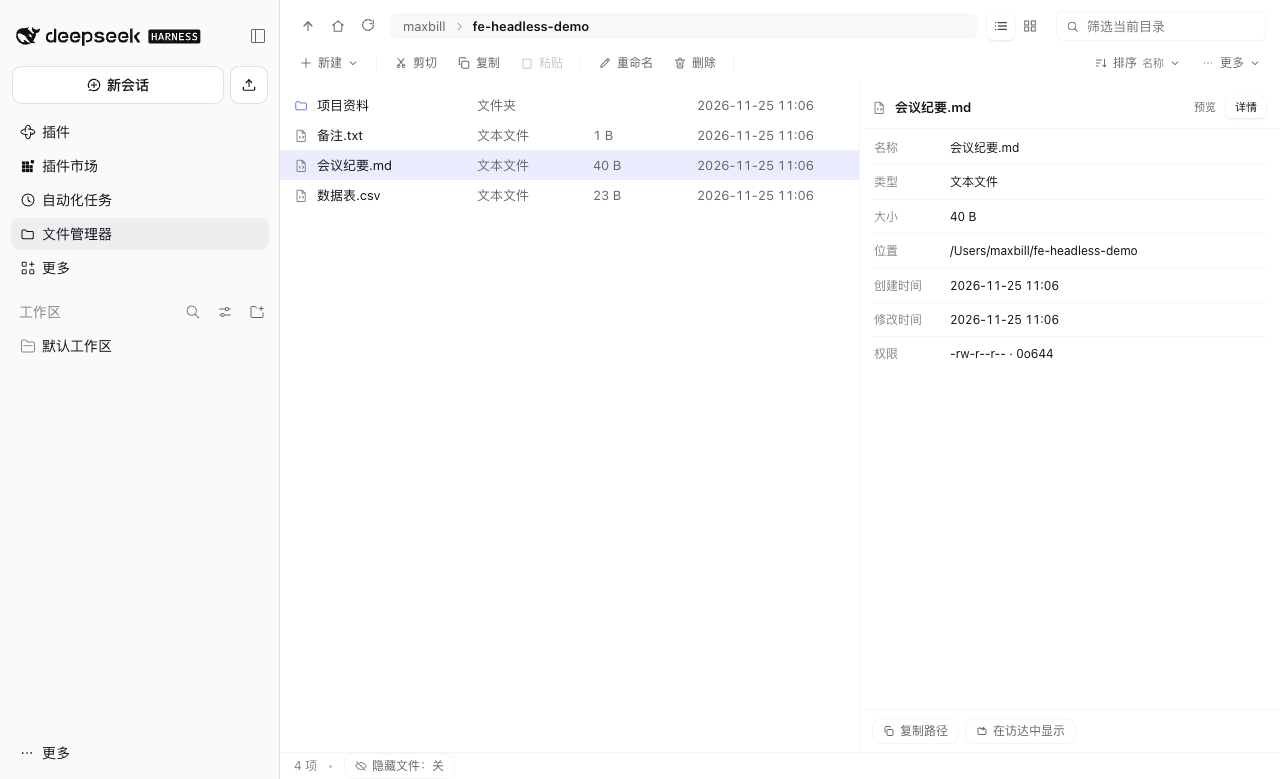
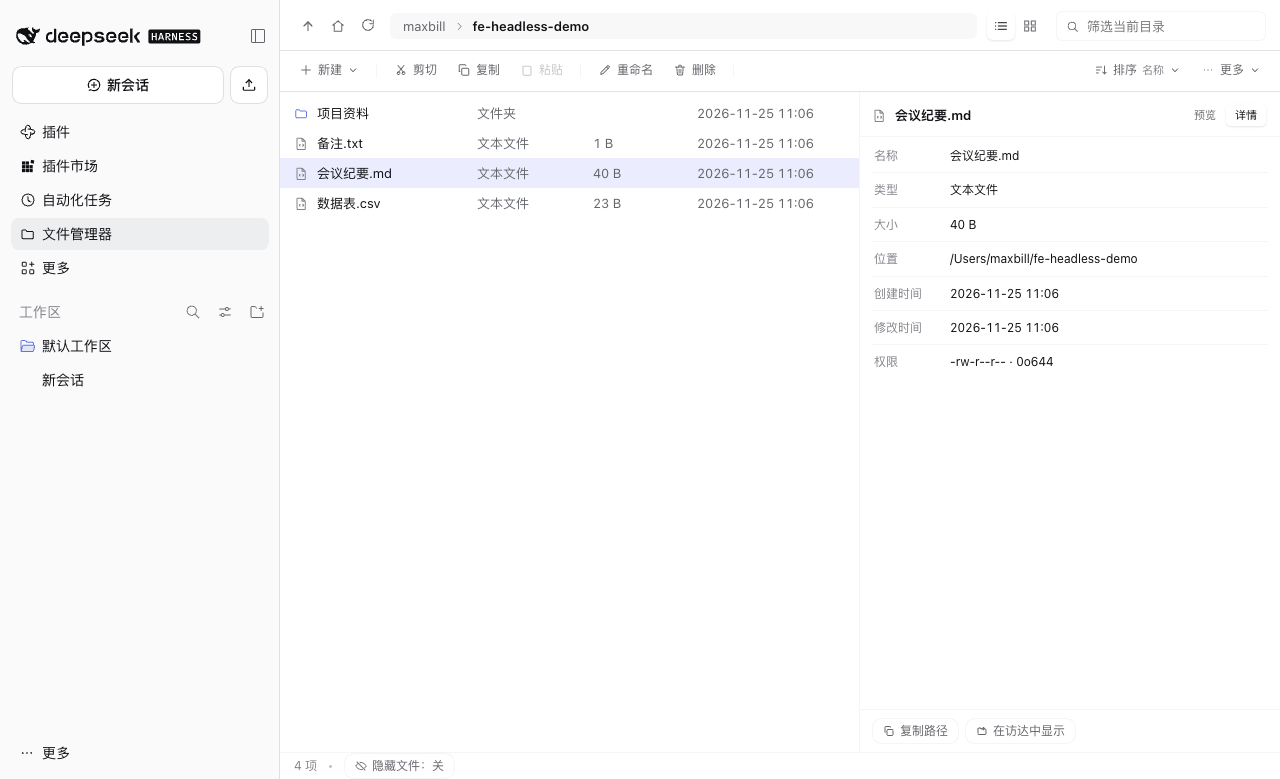
style: rule lines between the address bar, toolbar and listing
The three bands blended after the column header went away, so each now ends
with a 1px rule.

- .dfx-bar and .dfx-toolbar get a bottom border in rgba(127,127,127,.22), a
  neutral that works on light and dark; the theme's border token resolves to
  .04 here, too faint to read as a divider
- the toolbar gains 6px of top padding so its buttons do not sit on the rule
- docs screenshots re-captured with the rules

diff --git a/lib/client.js b/lib/client.js
@@ -72,7 +72,10 @@ window.__ModuleLoader__.load({
   font-size: 13px;
   line-height: 1.45;
 }
-.dfx-bar { display: flex; align-items: center; gap: 8px; padding: 10px 14px 8px; flex: 0 0 auto; }
+.dfx-bar {
+  display: flex; align-items: center; gap: 8px; padding: 10px 14px 8px; flex: 0 0 auto;
+  border-bottom: 1px solid var(--dfx-rule, rgba(127, 127, 127, .22));
+}
 .dfx-bar-actions { display: flex; align-items: center; gap: 2px; flex: 0 0 auto; }
 .dfx-navbtn {
   display: inline-flex; align-items: center; justify-content: center;
@@ -115,7 +118,8 @@ window.__ModuleLoader__.load({
 .dfx-search input { flex: 1 1 auto; min-width: 0; border: 0; outline: 0; background: transparent; color: inherit; font: inherit; }
 .dfx-search input::-webkit-search-cancel-button { display: none; }
 .dfx-toolbar {
-  display: flex; align-items: center; gap: 2px; padding: 0 10px 8px; flex: 0 0 auto;
+  display: flex; align-items: center; gap: 2px; padding: 6px 10px 8px; flex: 0 0 auto;
+  border-bottom: 1px solid var(--dfx-rule, rgba(127, 127, 127, .22));
 }
 .dfx-tool {
   display: inline-flex; align-items: center; gap: 5px; height: 26px; padding: 0 9px;
